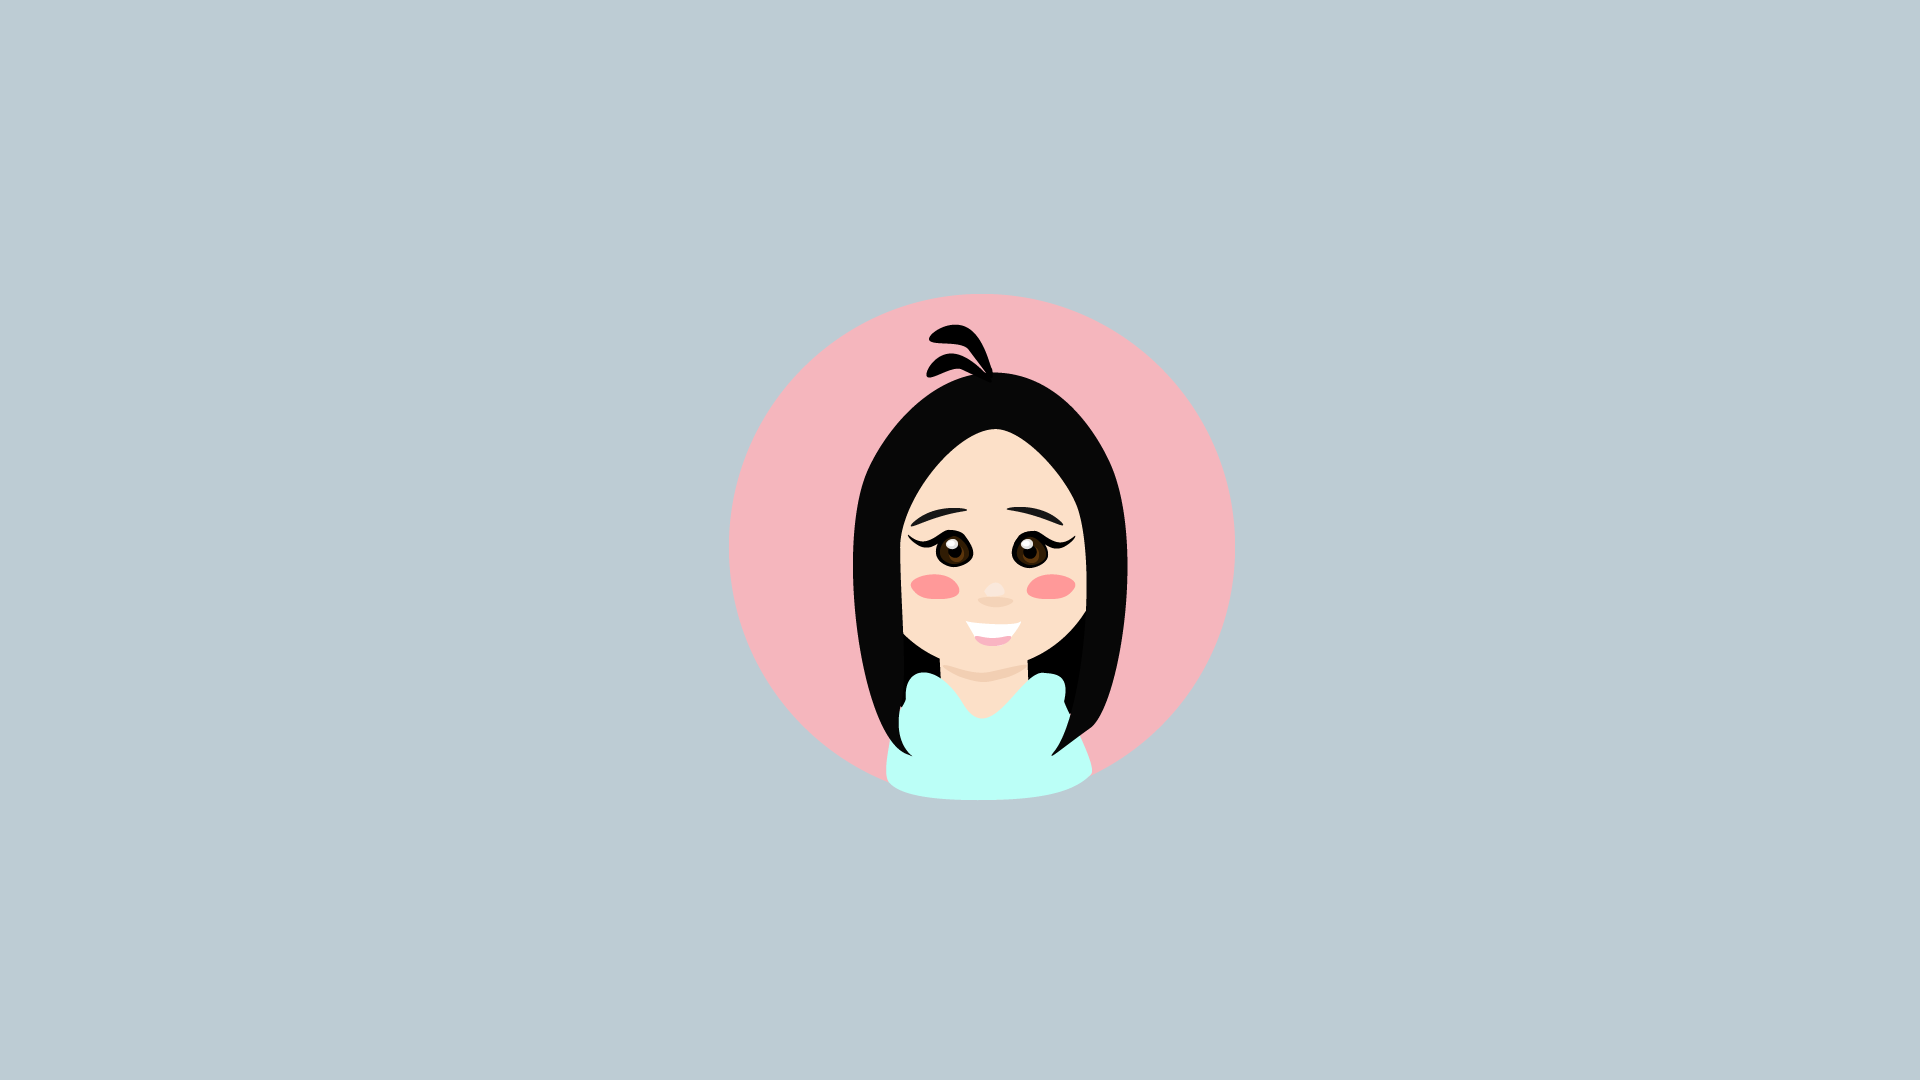
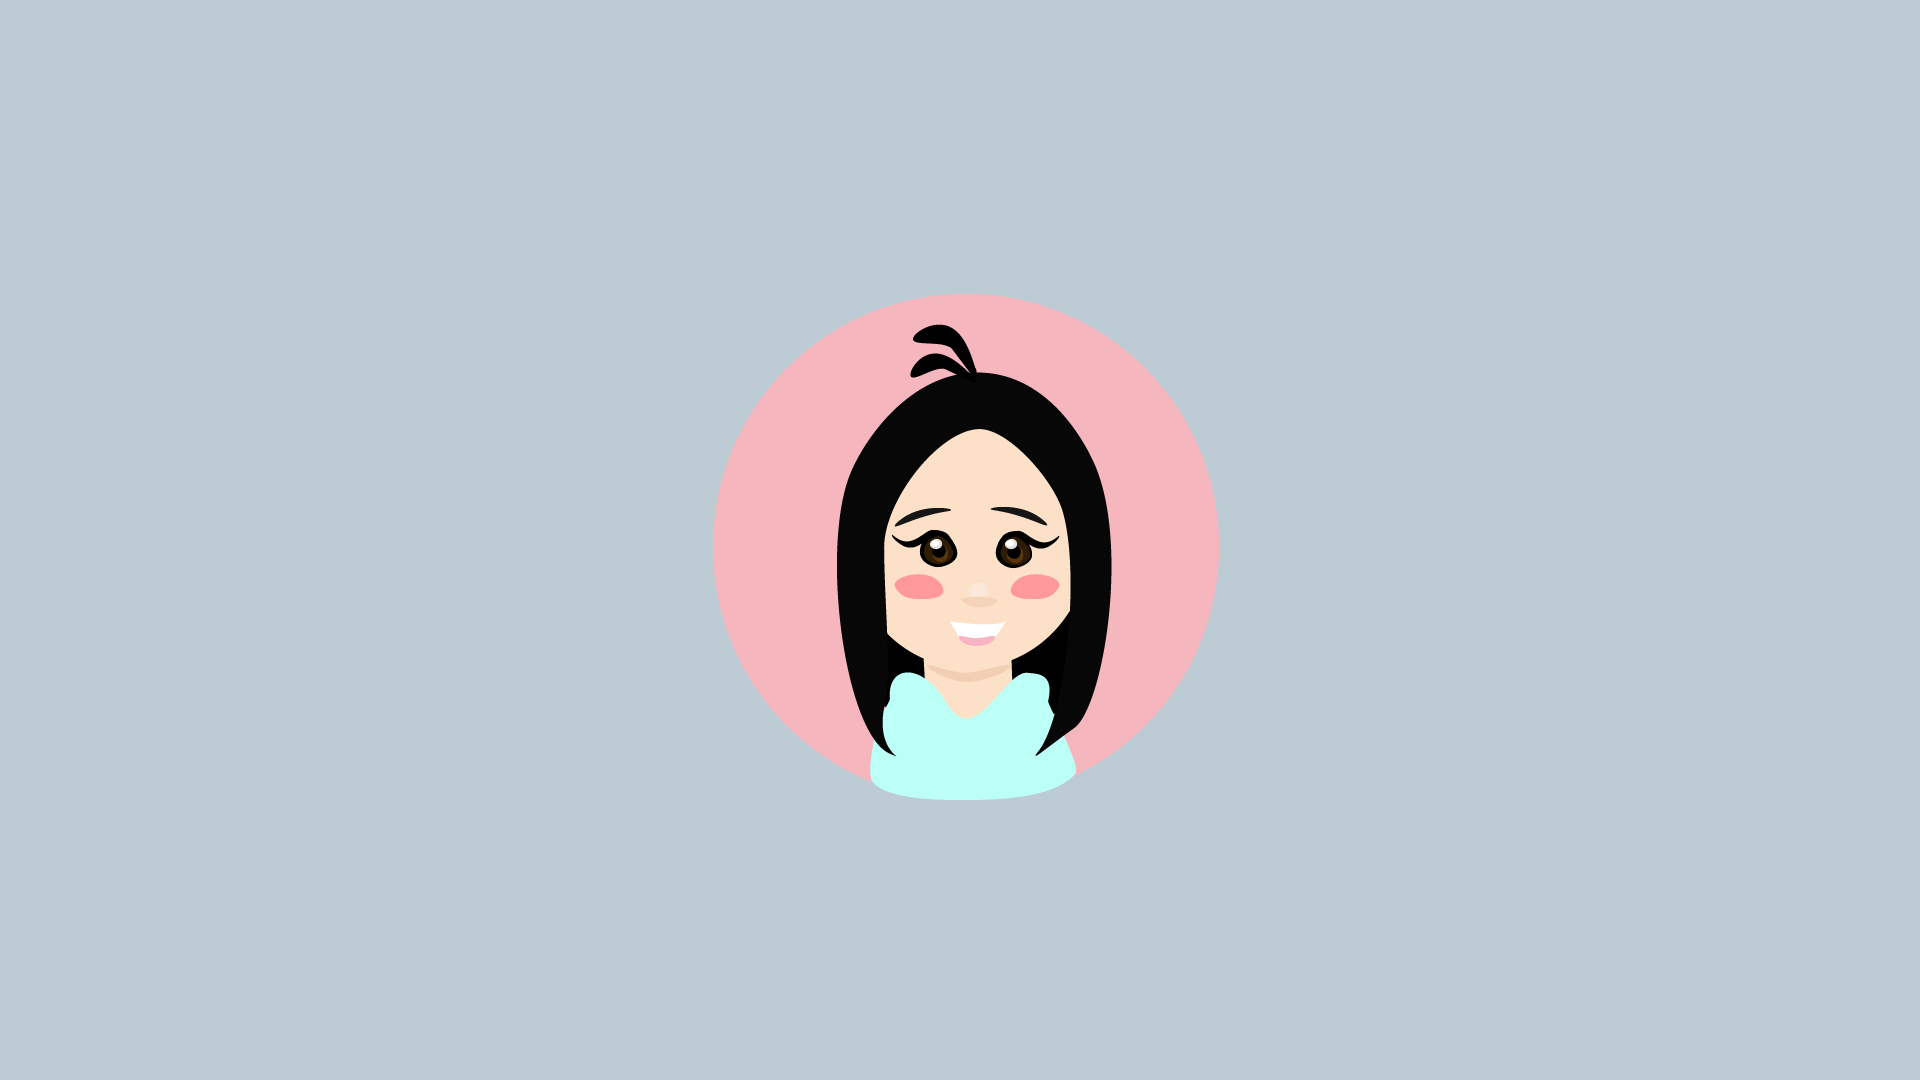
Font Home

diff --git a/index.html b/index.html
@@ -49,7 +49,7 @@
 		</ol>
 		<div class="carousel-inner" role="istbox">
 			<div class="item active">
-			<img src="img/cozy flood.jpg">
+			<img src="img/home.png">
 			<div class="carousel-caption">
 				<h2> Hi there! </h2>
 				<h1> I'm Annie Cao.</h1> <br> <h2> Welcome to my website</h2>
